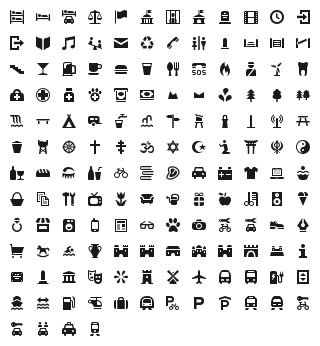
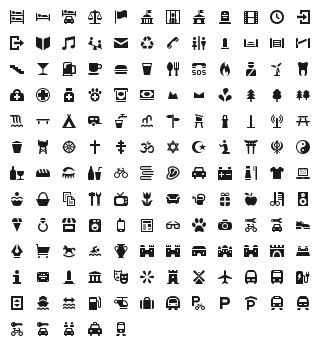
added chemist (modified after idea by @kocio-pl, resolves #35)

diff --git a/font/osmic-preview.html b/font/osmic-preview.html
@@ -191,6 +191,7 @@
 .oc-cattle-grid:before,
 .oc-cemetery:before,
 .oc-charging-station:before,
+.oc-chemist:before,
 .oc-christian:before,
 .oc-christian-orthodox:before,
 .oc-cinema:before,
@@ -353,6 +354,7 @@
 .oc-cattle-grid:before { content: "\f193"; }
 .oc-cemetery:before { content: "\f17c"; }
 .oc-charging-station:before { content: "\f16f"; }
+.oc-chemist:before { content: "\f197"; }
 .oc-christian:before { content: "\f118"; }
 .oc-christian-orthodox:before { content: "\f119"; }
 .oc-cinema:before { content: "\f11a"; }
@@ -485,7 +487,7 @@
   <body class="characters-off">
     <div id="page" class="container">
       <header>
-        <h1>osmic contains 148 glyphs:</h1>
+        <h1>osmic contains 149 glyphs:</h1>
         <a onclick="toggleCharacters(); return false;" href="#">Toggle Preview Characters</a>
       </header>
 
@@ -890,6 +892,19 @@
         <div class="usage">
           <input class="class" type="text" readonly="readonly" onClick="this.select();" value=".oc-charging-station" />
           <input class="point" type="text" readonly="readonly" onClick="this.select();" value="&amp;#xf16f;" />
+        </div>
+      </div>
+      
+      <div class="glyph">
+        <div class="preview-glyphs">
+          <span class="step size-12"><span class="letters">Pp</span><i id="oc-chemist" class="oc-chemist"></i></span><span class="step size-14"><span class="letters">Pp</span><i id="oc-chemist" class="oc-chemist"></i></span><span class="step size-16"><span class="letters">Pp</span><i id="oc-chemist" class="oc-chemist"></i></span><span class="step size-18"><span class="letters">Pp</span><i id="oc-chemist" class="oc-chemist"></i></span><span class="step size-21"><span class="letters">Pp</span><i id="oc-chemist" class="oc-chemist"></i></span><span class="step size-24"><span class="letters">Pp</span><i id="oc-chemist" class="oc-chemist"></i></span><span class="step size-36"><span class="letters">Pp</span><i id="oc-chemist" class="oc-chemist"></i></span><span class="step size-48"><span class="letters">Pp</span><i id="oc-chemist" class="oc-chemist"></i></span><span class="step size-60"><span class="letters">Pp</span><i id="oc-chemist" class="oc-chemist"></i></span><span class="step size-72"><span class="letters">Pp</span><i id="oc-chemist" class="oc-chemist"></i></span>
+        </div>
+        <div class="preview-scale">
+          <span class="step">12</span><span class="step">14</span><span class="step">16</span><span class="step">18</span><span class="step">21</span><span class="step">24</span><span class="step">36</span><span class="step">48</span><span class="step">60</span><span class="step">72</span>
+        </div>
+        <div class="usage">
+          <input class="class" type="text" readonly="readonly" onClick="this.select();" value=".oc-chemist" />
+          <input class="point" type="text" readonly="readonly" onClick="this.select();" value="&amp;#xf197;" />
         </div>
       </div>
       

diff --git a/font/osmic.css b/font/osmic.css
@@ -54,6 +54,7 @@
 .oc-cattle-grid:before,
 .oc-cemetery:before,
 .oc-charging-station:before,
+.oc-chemist:before,
 .oc-christian:before,
 .oc-christian-orthodox:before,
 .oc-cinema:before,
@@ -216,6 +217,7 @@
 .oc-cattle-grid:before { content: "\f193"; }
 .oc-cemetery:before { content: "\f17c"; }
 .oc-charging-station:before { content: "\f16f"; }
+.oc-chemist:before { content: "\f197"; }
 .oc-christian:before { content: "\f118"; }
 .oc-christian-orthodox:before { content: "\f119"; }
 .oc-cinema:before { content: "\f11a"; }
